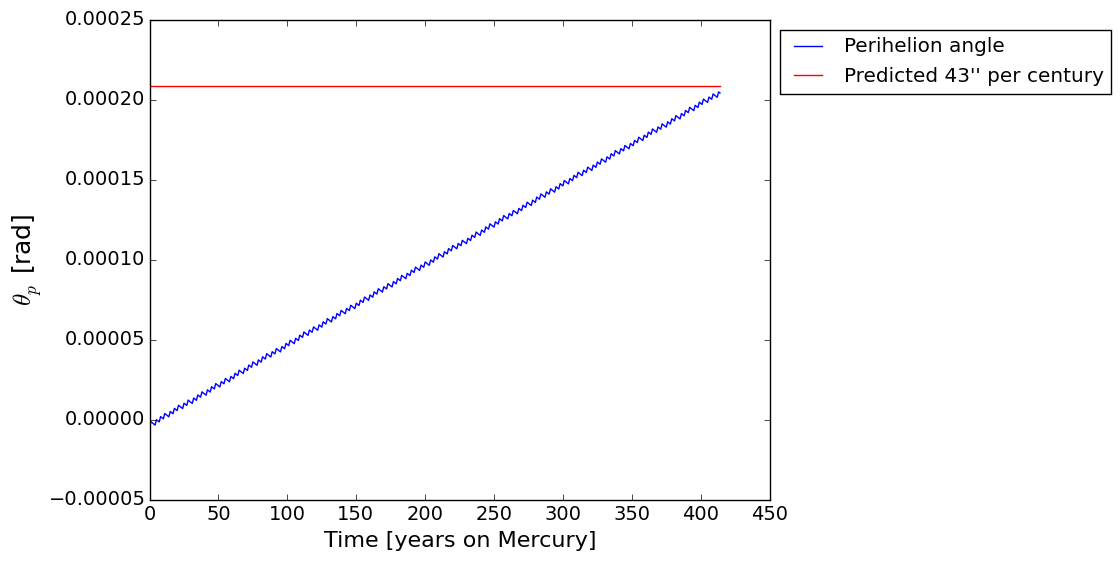
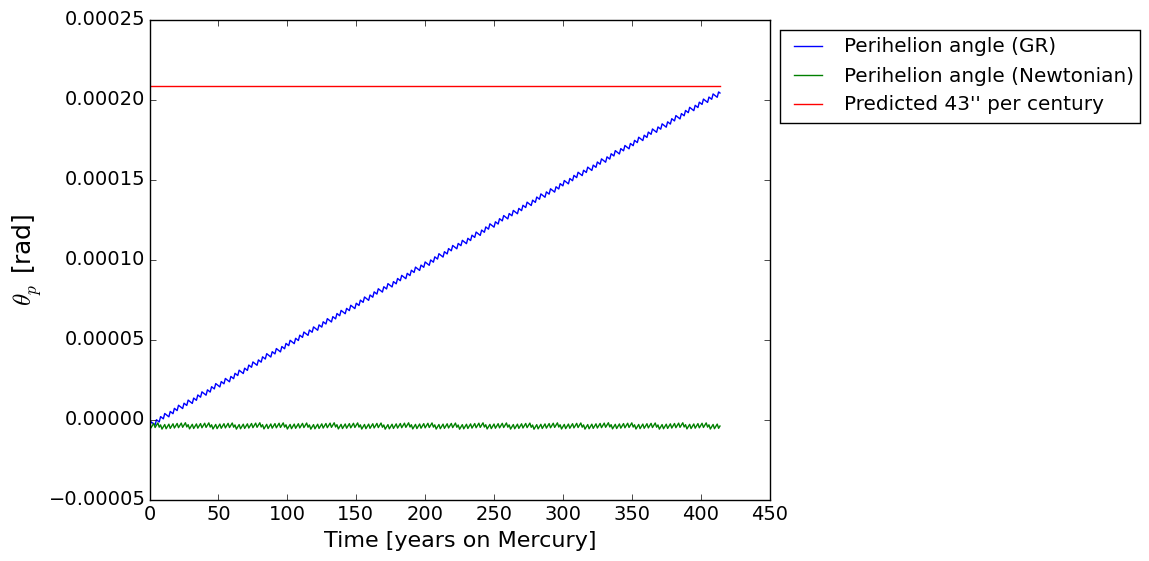
added Newtonian effect

diff --git a/Project_3/Project_3_Mercury.py b/Project_3/Project_3_Mercury.py
@@ -21,9 +21,9 @@ print "The ratio between perihelion precession with Newtonian force and with GR 
 t = arange(0, len(theta))
 
 figure(1)
-plot(t, theta, "-b", [0, t[-1]], [0.0002085, 0.0002085], "-r")
+plot(t, theta, "-b", t, theta_Newtonian, "-g", [0, t[-1]], [0.0002085, 0.0002085], "-r")
 art = []
-lgd = legend(["Perihelion angle", "Predicted 43'' per century"], loc="upper left", bbox_to_anchor=(1, 1))
+lgd = legend(["Perihelion angle (GR)", "Perihelion angle (Newtonian)", "Predicted 43'' per century"], loc="upper left", bbox_to_anchor=(1, 1))
 xlabel("Time [years on Mercury]", fontsize = 16)
 ylabel(r"$\theta_p$ [rad]", fontsize = 18)    
 art.append(lgd)
